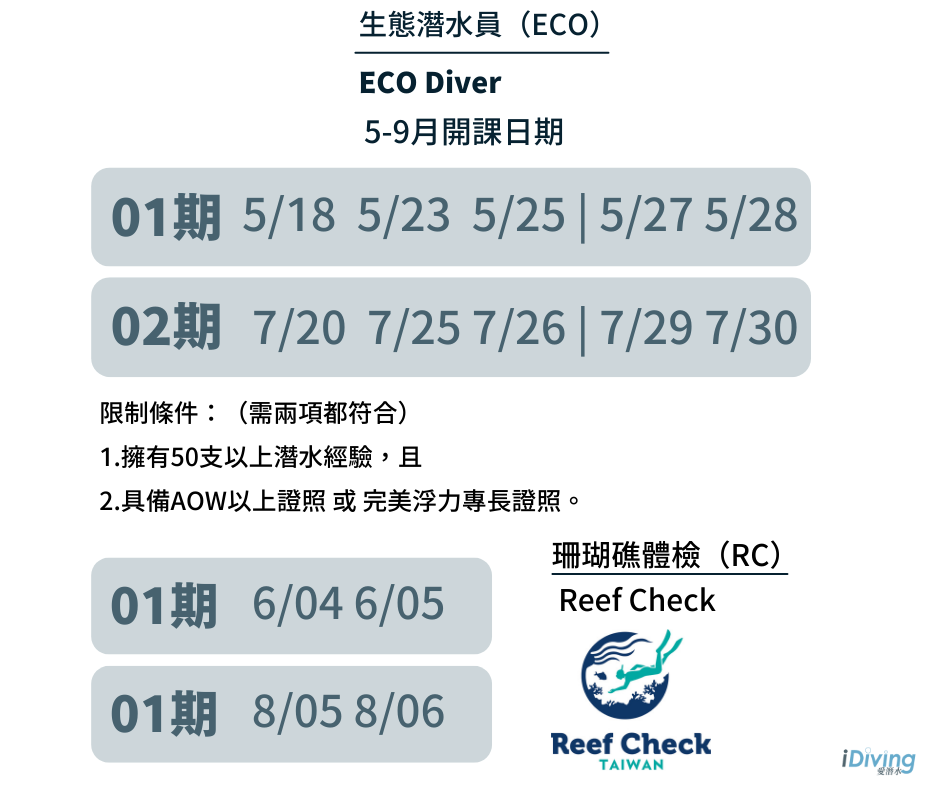
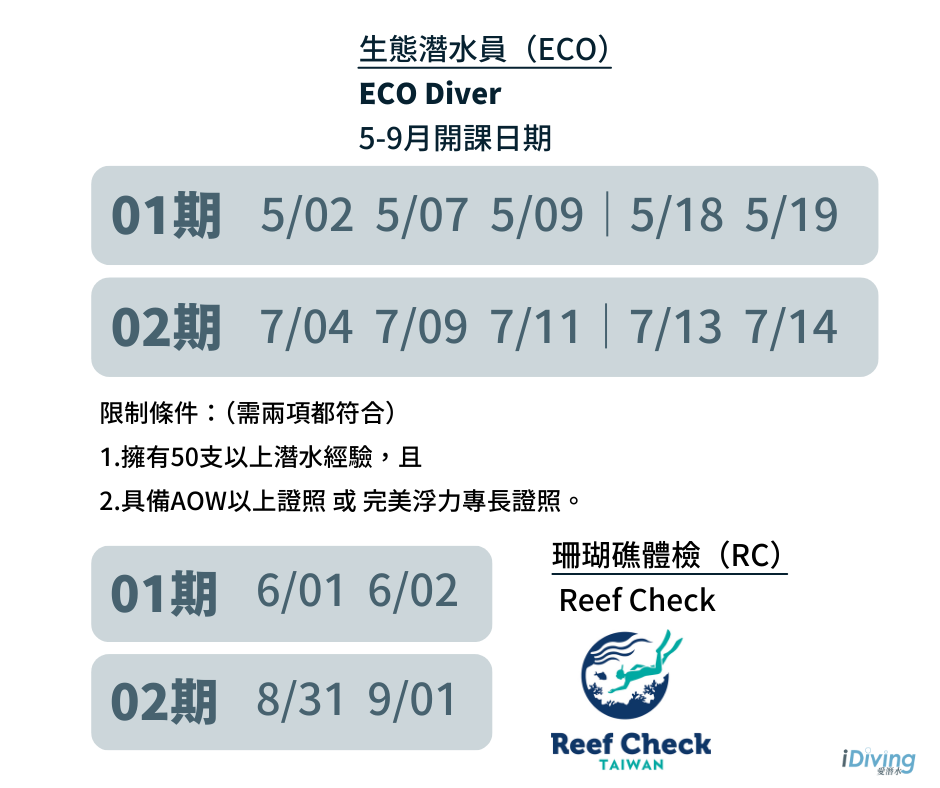
更新 BD ECO 課程期別圖

diff --git a/src/app/pages/c310/c310.component.html b/src/app/pages/c310/c310.component.html
@@ -1516,9 +1516,6 @@
                                                 <div class="carousel-item active">
                                                     <img src="../../../../assets/Image/Data/Schedule_BD_01.png" class="d-block w-100" alt="...">
                                                 </div>
-                                                <div class="carousel-item">
-                                                    <img src="../../../../assets/Image/Data/Schedule_BD_02.png" class="d-block w-100" alt="...">
-                                                </div>
                                             </div>
                                             <button class="carousel-control-prev" type="button" data-bs-target="#carouselExampleIndicators" data-bs-slide="prev">
                                                 <span class="carousel-control-prev-icon" aria-hidden="true"></span>
